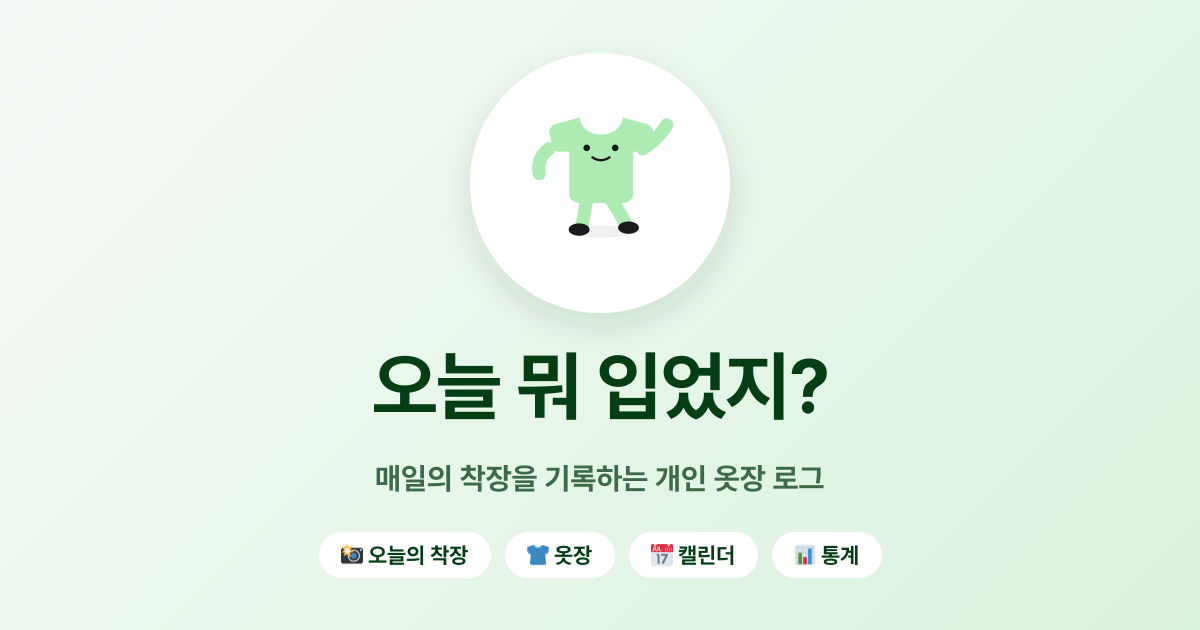
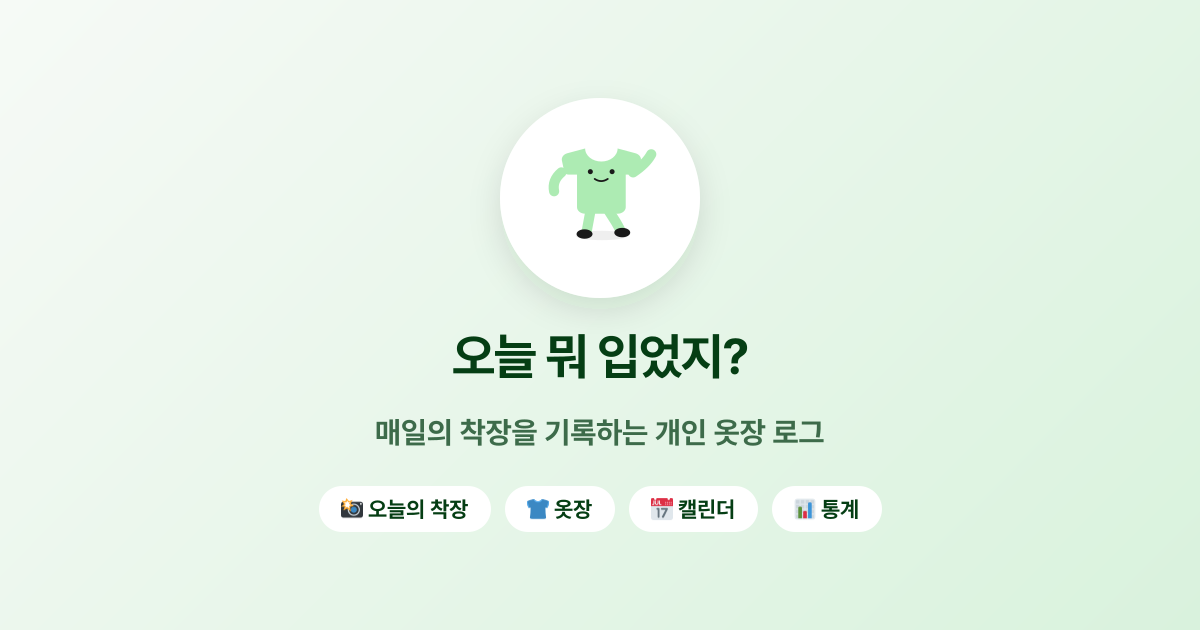
🎨 style: OG 이미지 아이콘·제목 크기 축소

Changed region(s): [[0.2775, 0.1508, 0.74, 0.9349]]

diff --git a/app/opengraph-image.tsx b/app/opengraph-image.tsx
@@ -35,20 +35,20 @@ export default function Image() {
             display: "flex",
             alignItems: "center",
             justifyContent: "center",
-            width: 260,
-            height: 260,
+            width: 200,
+            height: 200,
             borderRadius: "50%",
             background: "#ffffff",
             boxShadow: "0 12px 32px rgba(5, 62, 20, 0.12)",
           }}
         >
-          <Mascot size={190} />
+          <Mascot size={145} />
         </div>
 
         <div
           style={{
             display: "flex",
-            fontSize: 76,
+            fontSize: 50,
             fontWeight: 700,
             color: "#053e14",
             letterSpacing: -1.5,
